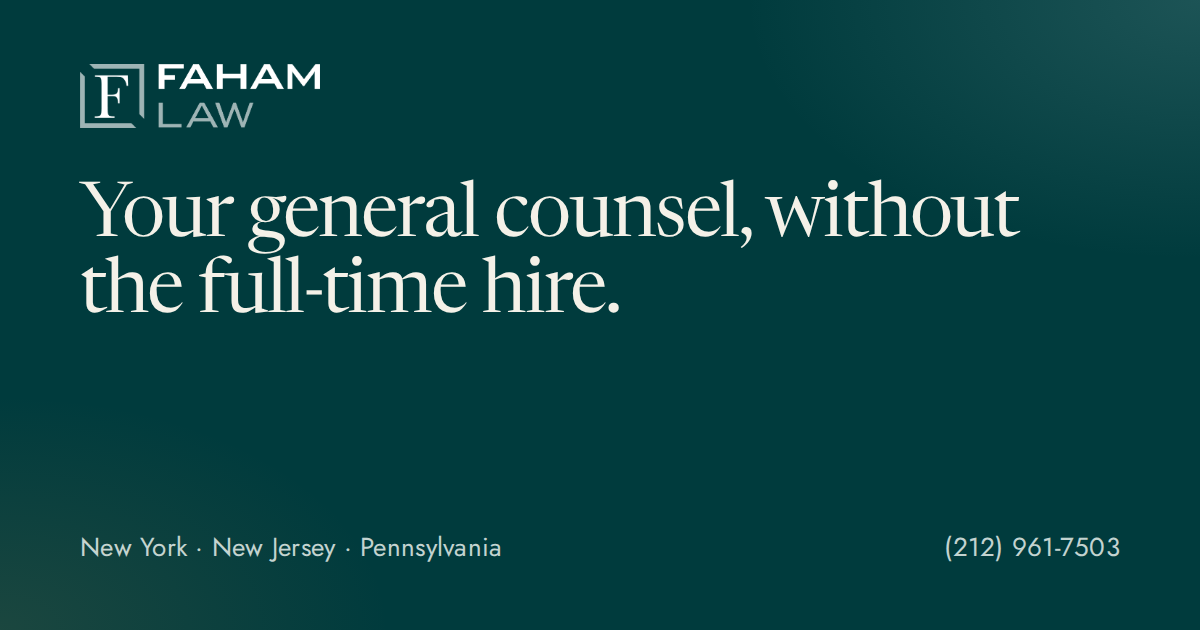
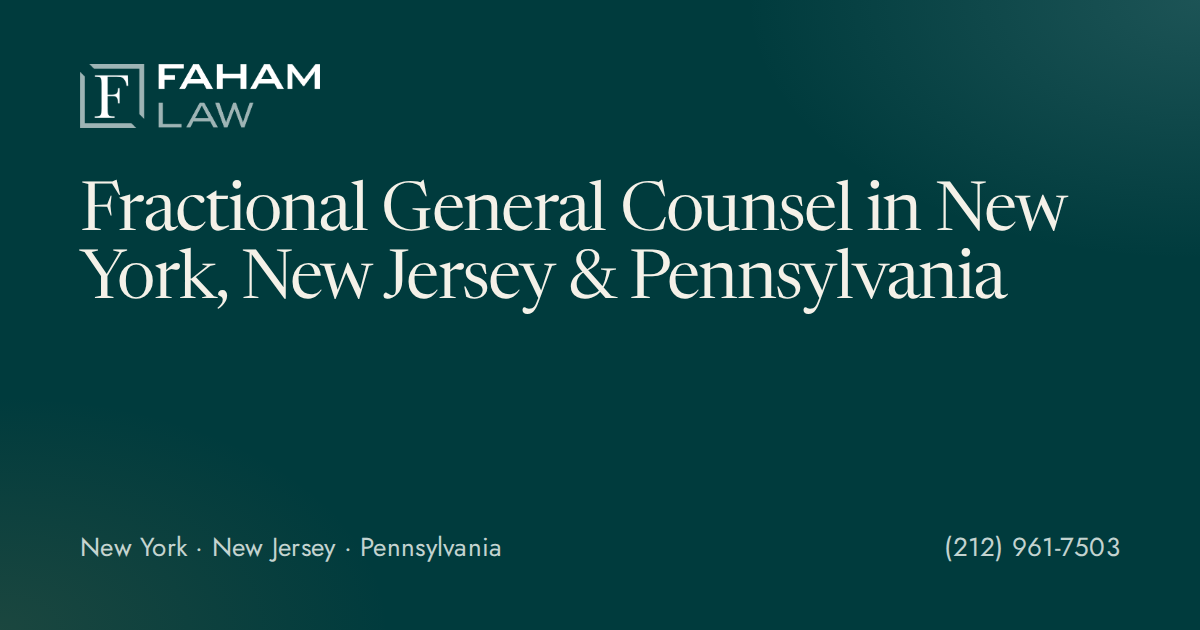
Plain, factual headlines throughout; remove the italic accent device
- Home: "Fractional General Counsel in New York, New Jersey & Pennsylvania".
- Section and page headings are statements (Fees, Contact, Practice Areas,
  Client testimonials, Book a consultation, How the retainer works).
- Removed the headline accent setting and the italic/green phrase styling,
  including the footer tagline.
- Share image regenerated.

Claude-Session: https://claude.ai/code/session_01QT89Wk9S7dm5mshmvxaSUE

Changed region(s): [[0.0617, 0.2714, 0.8942, 0.5127]]

diff --git a/src/scripts/admin.ts b/src/scripts/admin.ts
@@ -844,7 +844,7 @@ type Field = {
 };
 type Section = { id: string; label: string; path: string; intro?: string; fields: Field[] };
 
-const EMPH = 'Wrap a phrase in *asterisks* to show it in italic, in the brand color.';
+const EMPH = undefined;
 const t = (key: string, label: string, hint?: string): Field => ({ key, label, type: 'text', hint });
 const ta = (key: string, label: string, hint?: string, big = false): Field => ({ key, label, type: 'textarea', hint, big });
 const link = (key: string, label: string, hint?: string, optional = false): Field => ({
@@ -885,11 +885,6 @@ const SITE_SECTIONS: Section[] = [
     fields: [
       { key: 'showTestimonials', label: 'Show testimonials on the site', type: 'bool', hint: 'Turn off to hide the testimonials section and page. Before showing a testimonial, confirm you have the client\'s written permission (NY Rule 7.1).' },
       { key: 'showInsights', label: 'Show the Insights link in the menu', type: 'bool', hint: 'Insights appears automatically once a post is published. Turn this on to show it earlier.' },
-      { key: 'headingAccent', label: 'Headline accent style', type: 'select', hint: 'How the *phrase* marked with asterisks in a headline is shown.', options: () => [
-        { value: 'plain', label: 'Plain: same weight and color as the rest of the headline' },
-        { value: 'color', label: 'Color: upright, in the brand green' },
-        { value: 'italic', label: 'Italic: italic, in the brand green' },
-      ] },
       { key: 'headshot', label: "David's photo", type: 'image', hint: 'Portrait orientation works best (about 1000 × 1500 pixels).' },
       t('headshotAlt', 'Photo description (alt text)'),
       link('headerCta', 'Header button', 'The button at the top right of every page.'),

diff --git a/src/styles/global.css b/src/styles/global.css
@@ -94,10 +94,7 @@ p { margin: 0; }
   letter-spacing: -0.028em;
   color: var(--green-900);
 }
-/* Headline accent (the *phrase* in a heading). Chosen in Admin → Site → Settings. */
 .display em, .h2 em { font-style: normal; color: inherit; }
-[data-accent='color'] .display em, [data-accent='color'] .h2 em { font-style: normal; color: var(--green-700); }
-[data-accent='italic'] .display em, [data-accent='italic'] .h2 em { font-style: italic; color: var(--green-700); }
 .h2 {
   font-family: var(--serif);
   font-weight: 400;
@@ -150,7 +147,6 @@ em, .italic { font-style: italic; }
 .dark .eyebrow { color: var(--brass-soft); }
 .dark .lead { color: rgba(232, 240, 236, 0.78); }
 .dark .h2, .dark .display { color: #f4f1e8; }
-[data-accent='color'] .dark .h2 em, [data-accent='color'] .dark .display em, [data-accent='italic'] .dark .h2 em, [data-accent='italic'] .dark .display em { color: var(--brass-soft); }
 
 /* Buttons: pill controls */
 .btn {

diff --git a/README.md b/README.md
@@ -51,7 +51,7 @@ Redeploy once after adding variables (Deploys → Trigger deploy).
 ## Using the admin
 Go to `https://www.fahamlaw.com/admin` and sign in with `ADMIN_PASSWORD`.
 
-- **Site.** Every word, list and image on the public site: firm details and address, home page, practice areas (add, remove, reorder), fees page, about page, contact page, testimonials and lists. **Save & publish** commits one change to GitHub and the site rebuilds in about 1–2 minutes. Headings can italicize a phrase by wrapping it in `*asterisks*`.
+- **Site.** Every word, list and image on the public site: firm details and address, home page, practice areas (add, remove, reorder), fees page, about page, contact page, testimonials and lists. **Save & publish** commits one change to GitHub and the site rebuilds in about 1–2 minutes.
 - **Posts → New post.** Write in the editor (pasting from Word/Google Docs keeps headings, bold and lists). Add a category, summary and optional cover image.
   - **Save draft**: private; does **not** rebuild the site (no Netlify credits used).
   - **Publish / Update**: the site rebuilds and the post is live in about 1–2 minutes (~15 Netlify credits).
